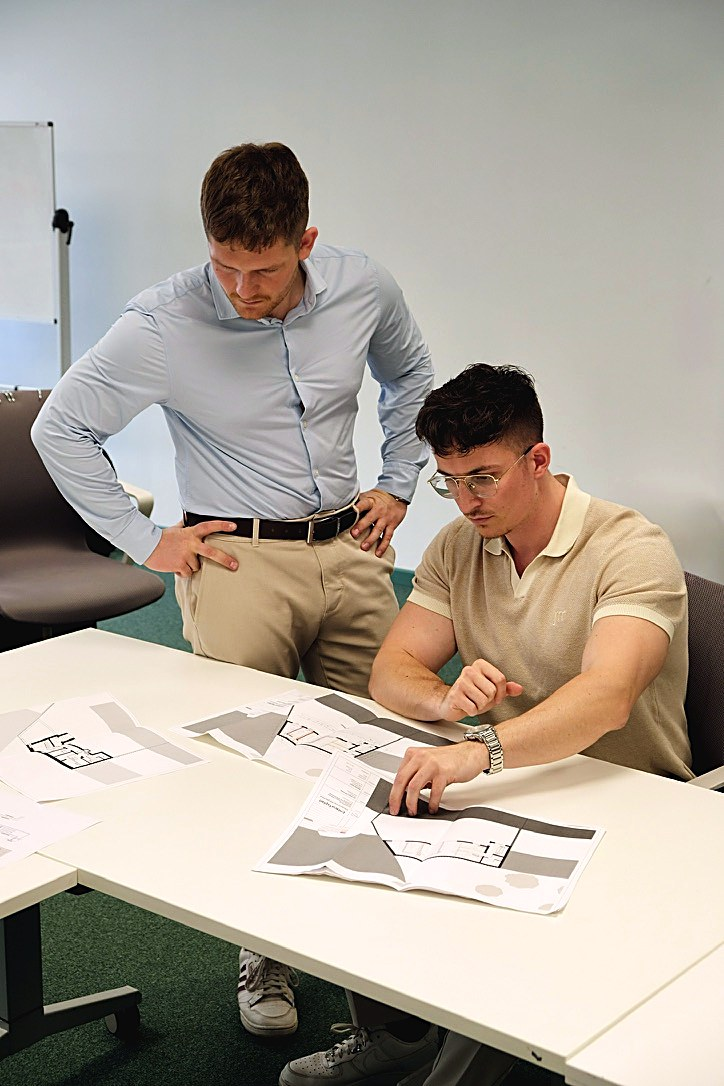
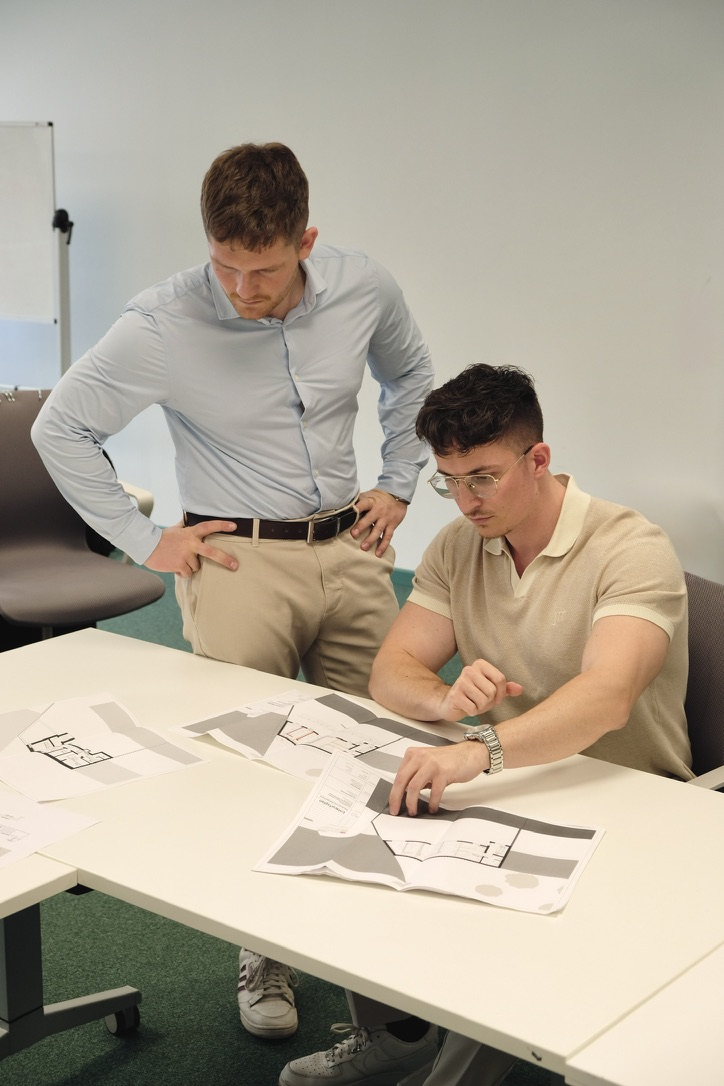
Fotos: Nachbearbeitung zurueckgenommen (Originale), Treppen-Foto Beschnitt nach unten verlagert

diff --git a/index.html b/index.html
@@ -350,7 +350,7 @@ section{padding:var(--pad) 0;position:relative}
 /* Der TEXT bestimmt die Zeilenhöhe; das Foto ist absolut positioniert und füllt exakt diese Höhe.
    object-position:top → Beschnitt unten, Köpfe oben bleiben sichtbar. */
 .team-photo{position:relative;margin:0;width:100%;min-height:280px}
-.team-photo img{position:absolute;inset:0;width:100%;height:100%;object-fit:cover;object-position:top;border-radius:var(--r-lg);box-shadow:var(--shadow-lg)}
+.team-photo img{position:absolute;inset:0;width:100%;height:100%;object-fit:cover;object-position:center 38%;border-radius:var(--r-lg);box-shadow:var(--shadow-lg)}
 @media(max-width:860px){.team-photo{min-height:0}.team-photo img{position:static;height:auto;aspect-ratio:4/5}}
 .team-photo figcaption{position:absolute;left:14px;right:14px;bottom:14px;background:rgba(255,255,255,.85);backdrop-filter:blur(12px);border:1px solid rgba(255,255,255,.7);border-radius:14px;padding:.8rem 1rem}
 .team-photo figcaption strong{font-family:var(--disp);font-weight:600;display:block;font-size:.98rem;color:var(--ink)}
